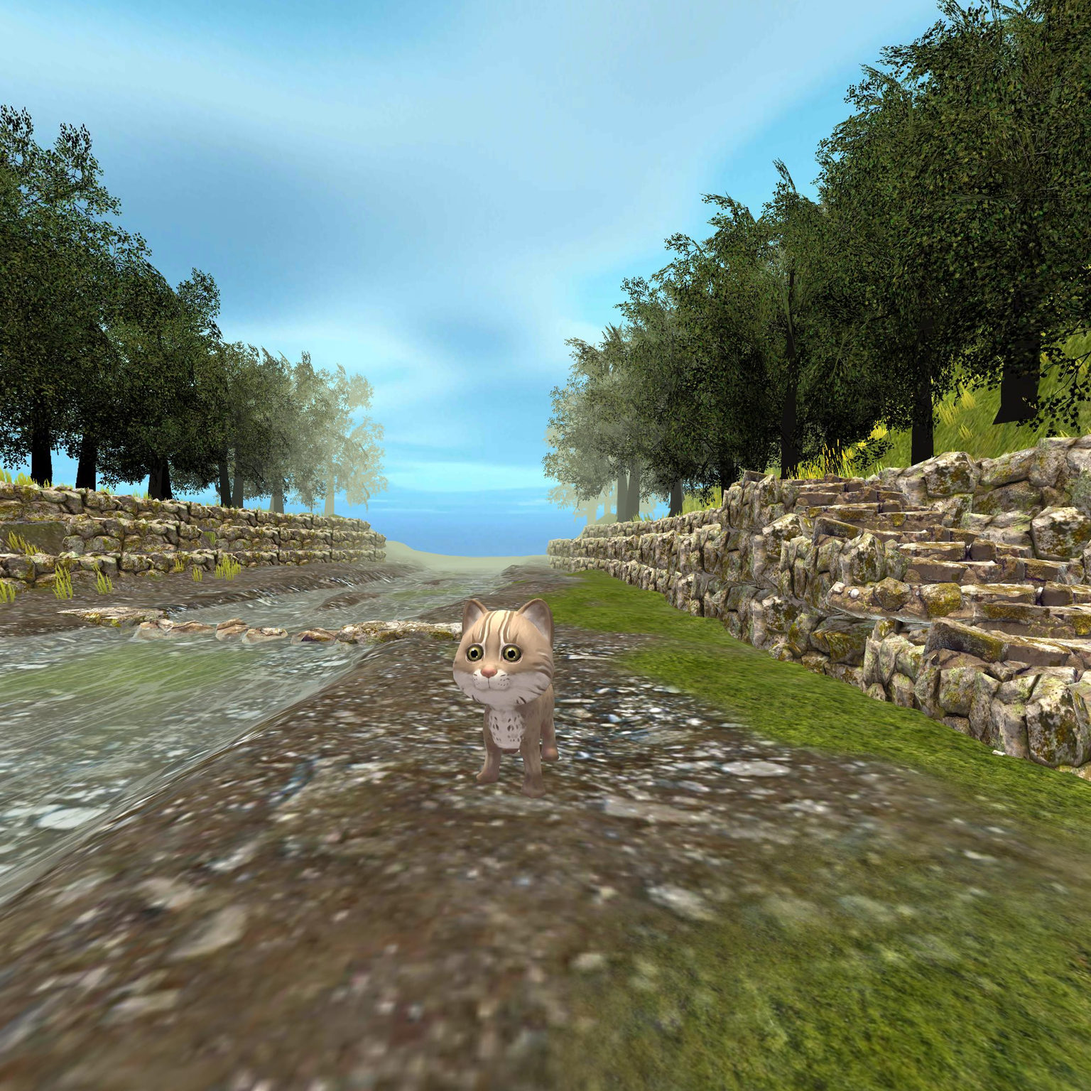
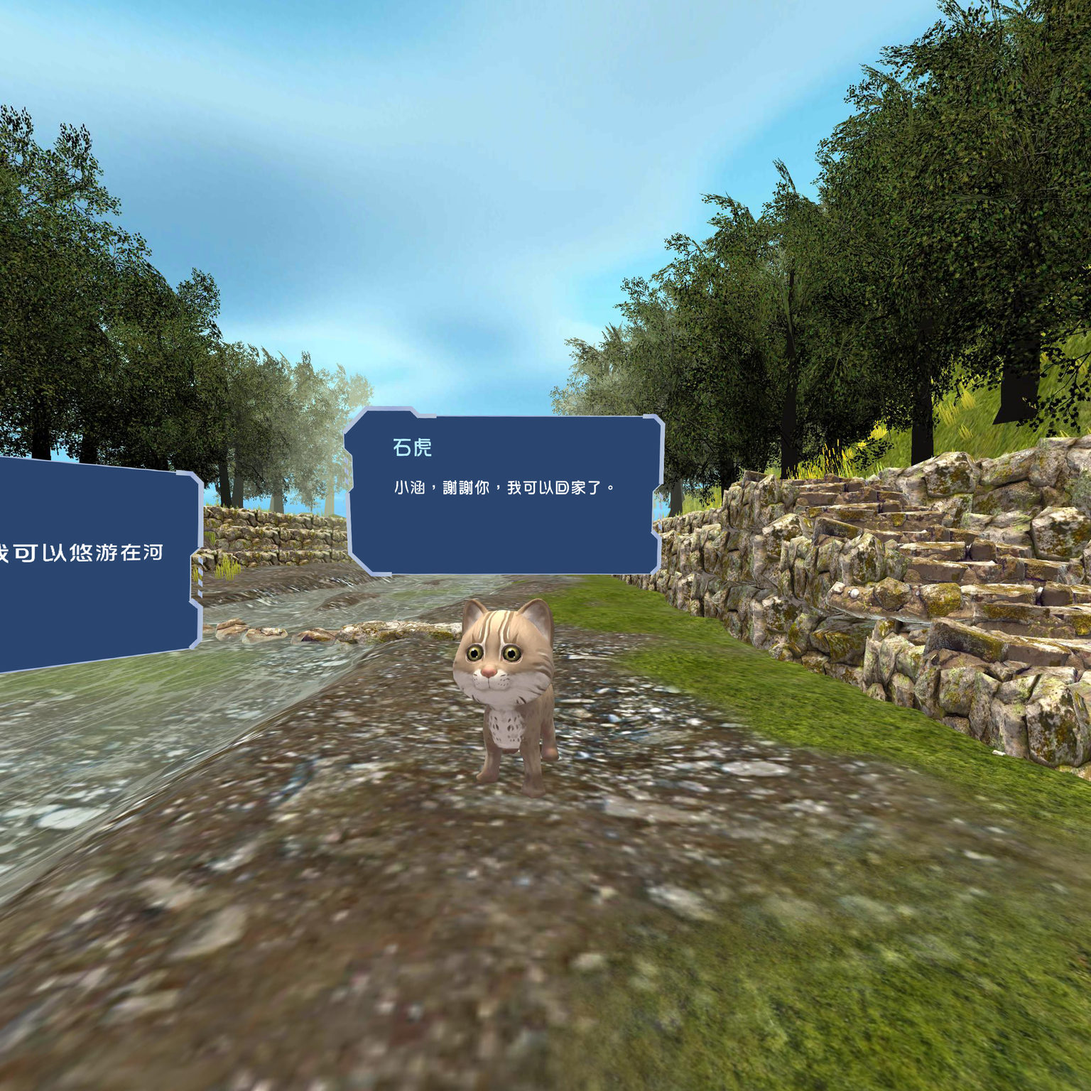
change pano

Changed region(s): [[0.3125, 0.375, 0.625, 0.5312], [0.0, 0.4062, 0.1875, 0.625]]

diff --git a/static/js/data.js b/static/js/data.js
@@ -6437,42 +6437,42 @@ var data =
             "type": "img"
           }
         ]
-      },
-      {
-        "name": "scene_86e0ff8c37a2fb02",
-        "hotspot": [
-          {
-            "name": "hotspot_bhhn13",
-            "videourl": "resource/tie/53d36fa190e4d348.png",
-            "locationurl": "",
-            "hotspottitle": "u89d2u8272u5927u982du8cbc-04.png",
-            "ath": "-94.422107121116",
-            "atv": "-5.3188172694462",
-            "width": "186",
-            "height": "100",
-            "rx": "-4",
-            "ry": "7",
-            "rz": "-1",
-            "depth": "603",
-            "type": "img"
-          },
-          {
-            "name": "hotspot_g7xcjm",
-            "videourl": "resource/tie/82ccbe36acfc4be6.png",
-            "locationurl": "",
-            "hotspottitle": "u89d2u8272u5927u982du8cbc-06.png",
-            "ath": "-139.38102023615",
-            "atv": "1.0034304970325",
-            "width": "241",
-            "height": "132",
-            "rx": "0",
-            "ry": "15",
-            "rz": "-1",
-            "depth": "791",
-            "type": "img"
-          }
-        ]
       }
+      // {
+      //   "name": "scene_86e0ff8c37a2fb02",
+      //   "hotspot": [
+      //     {
+      //       "name": "hotspot_bhhn13",
+      //       "videourl": "resource/tie/53d36fa190e4d348.png",
+      //       "locationurl": "",
+      //       "hotspottitle": "u89d2u8272u5927u982du8cbc-04.png",
+      //       "ath": "-94.422107121116",
+      //       "atv": "-5.3188172694462",
+      //       "width": "186",
+      //       "height": "100",
+      //       "rx": "-4",
+      //       "ry": "7",
+      //       "rz": "-1",
+      //       "depth": "603",
+      //       "type": "img"
+      //     },
+      //     {
+      //       "name": "hotspot_g7xcjm",
+      //       "videourl": "resource/tie/82ccbe36acfc4be6.png",
+      //       "locationurl": "",
+      //       "hotspottitle": "u89d2u8272u5927u982du8cbc-06.png",
+      //       "ath": "-139.38102023615",
+      //       "atv": "1.0034304970325",
+      //       "width": "241",
+      //       "height": "132",
+      //       "rx": "0",
+      //       "ry": "15",
+      //       "rz": "-1",
+      //       "depth": "791",
+      //       "type": "img"
+      //     }
+      //   ]
+      // }
       // {
       //   "name": "scene_1697e0e33408b9b9",
       //   "hotspot": [
